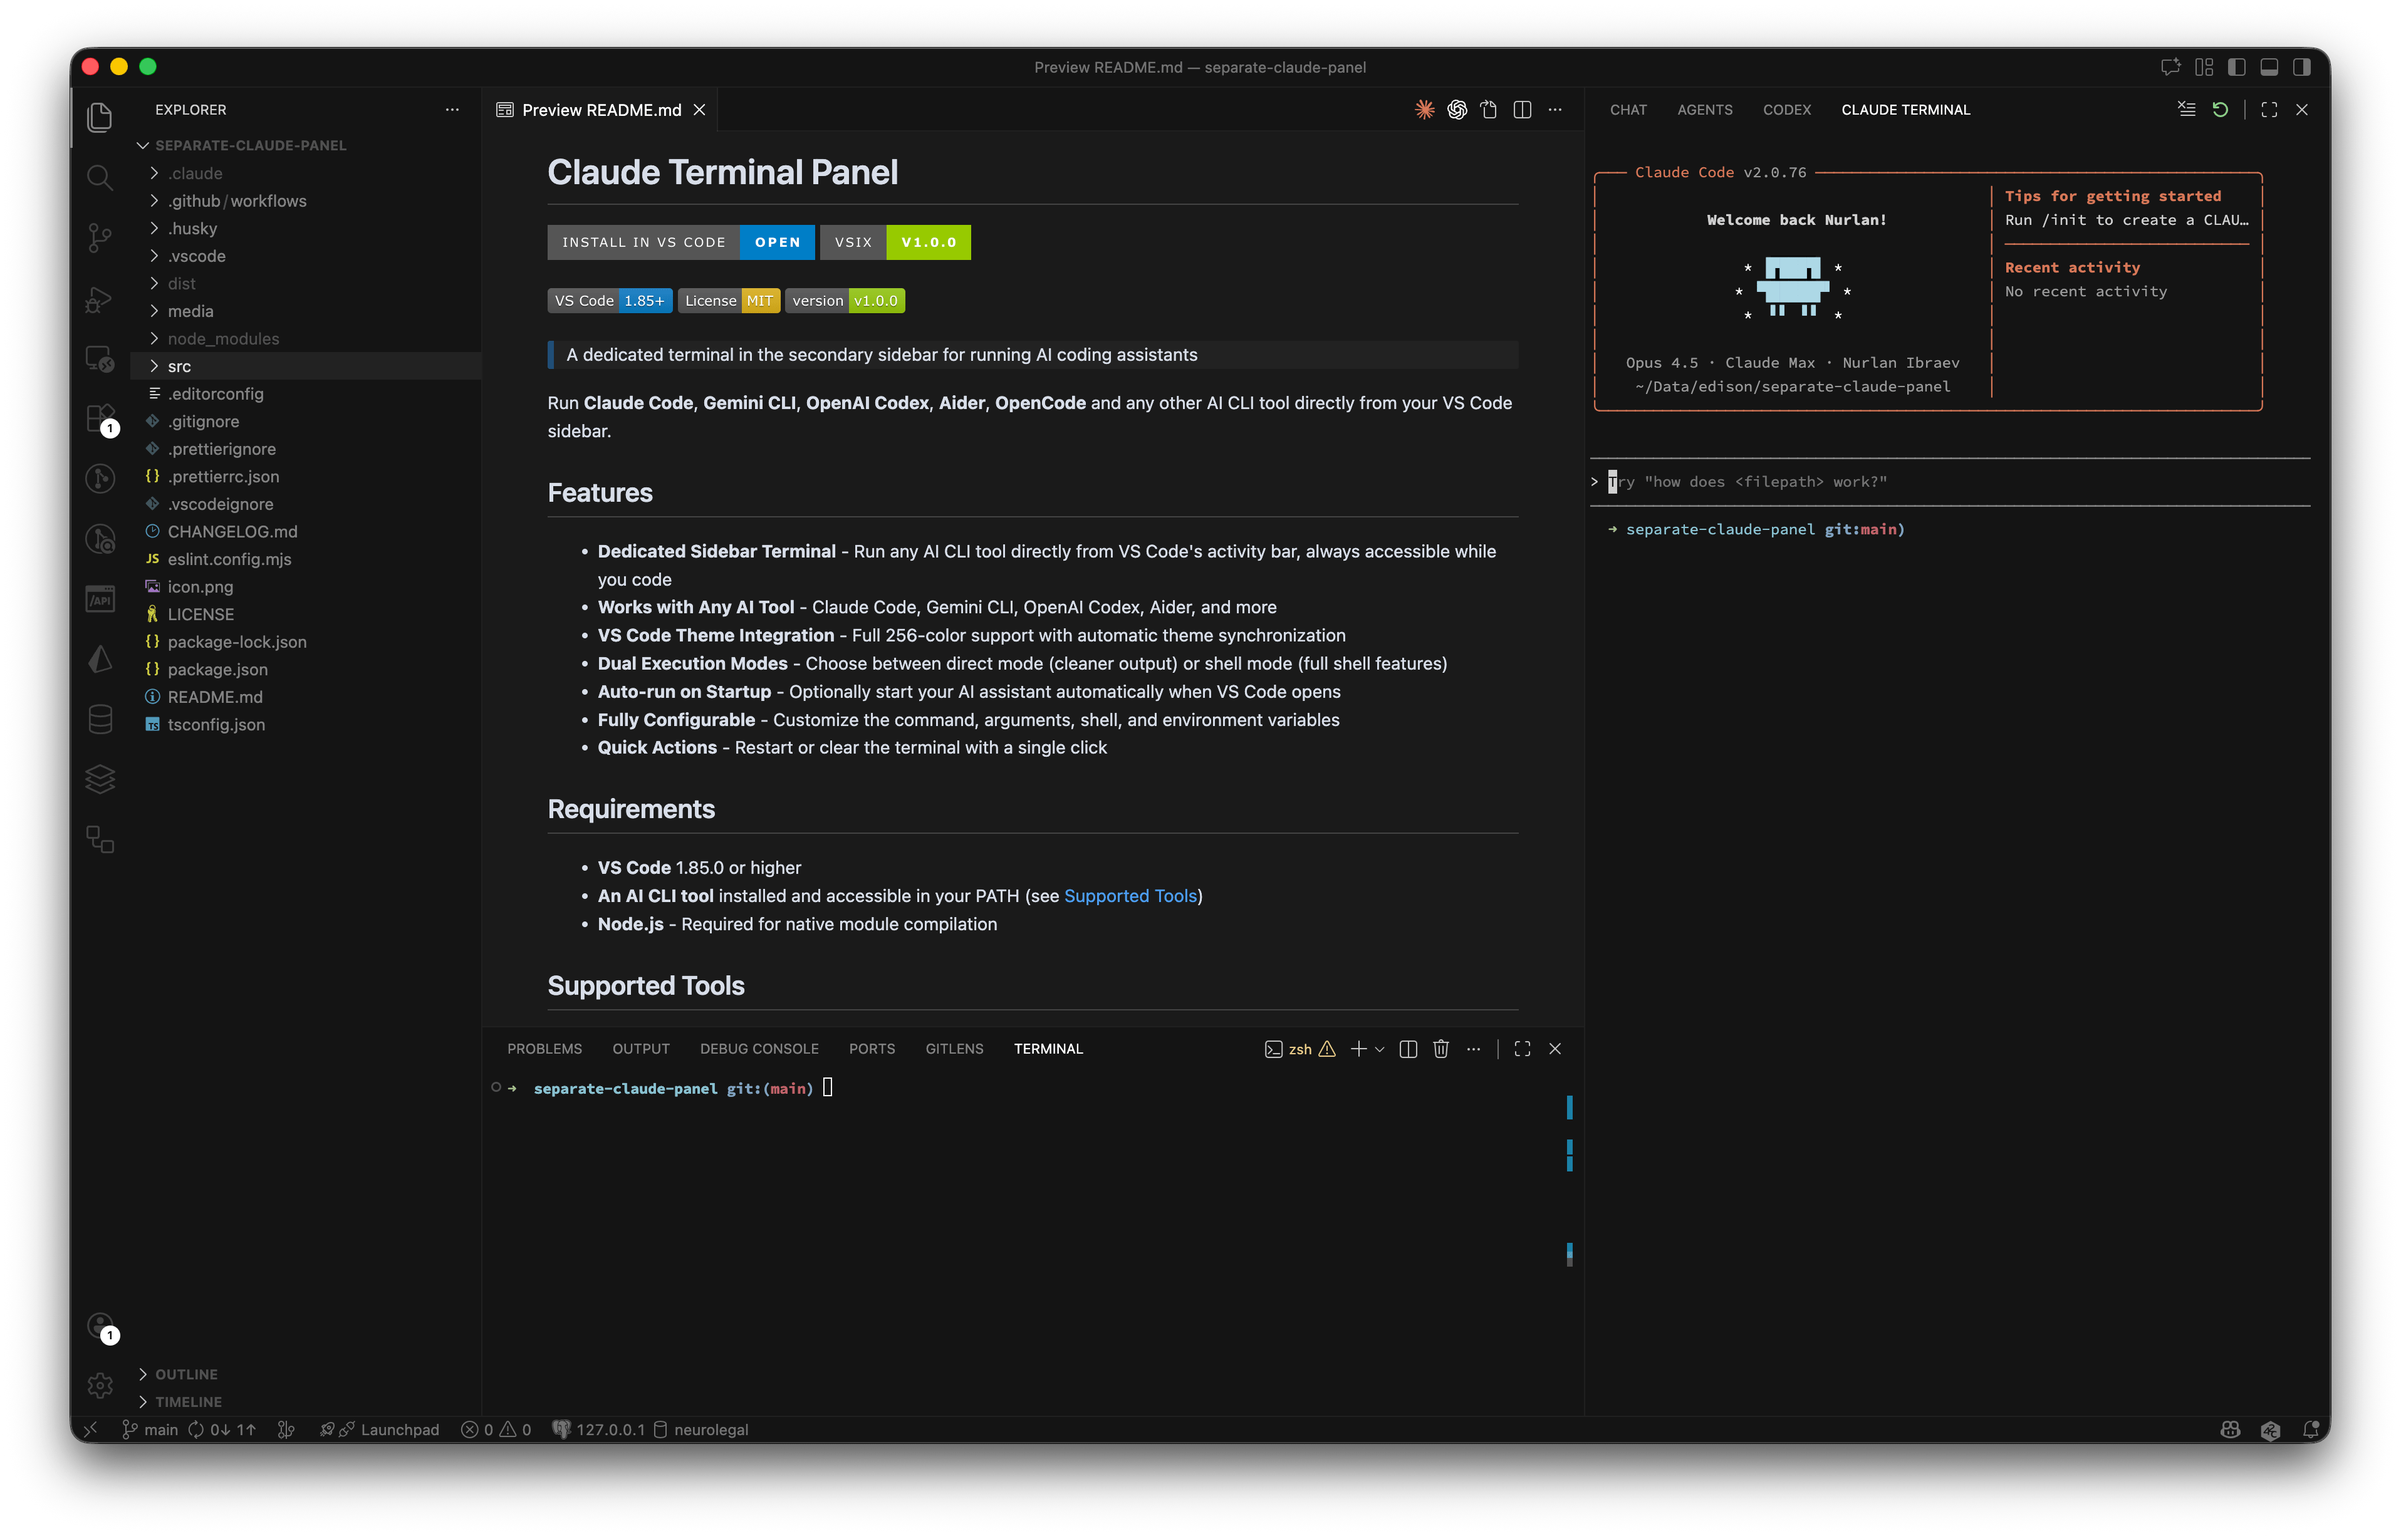
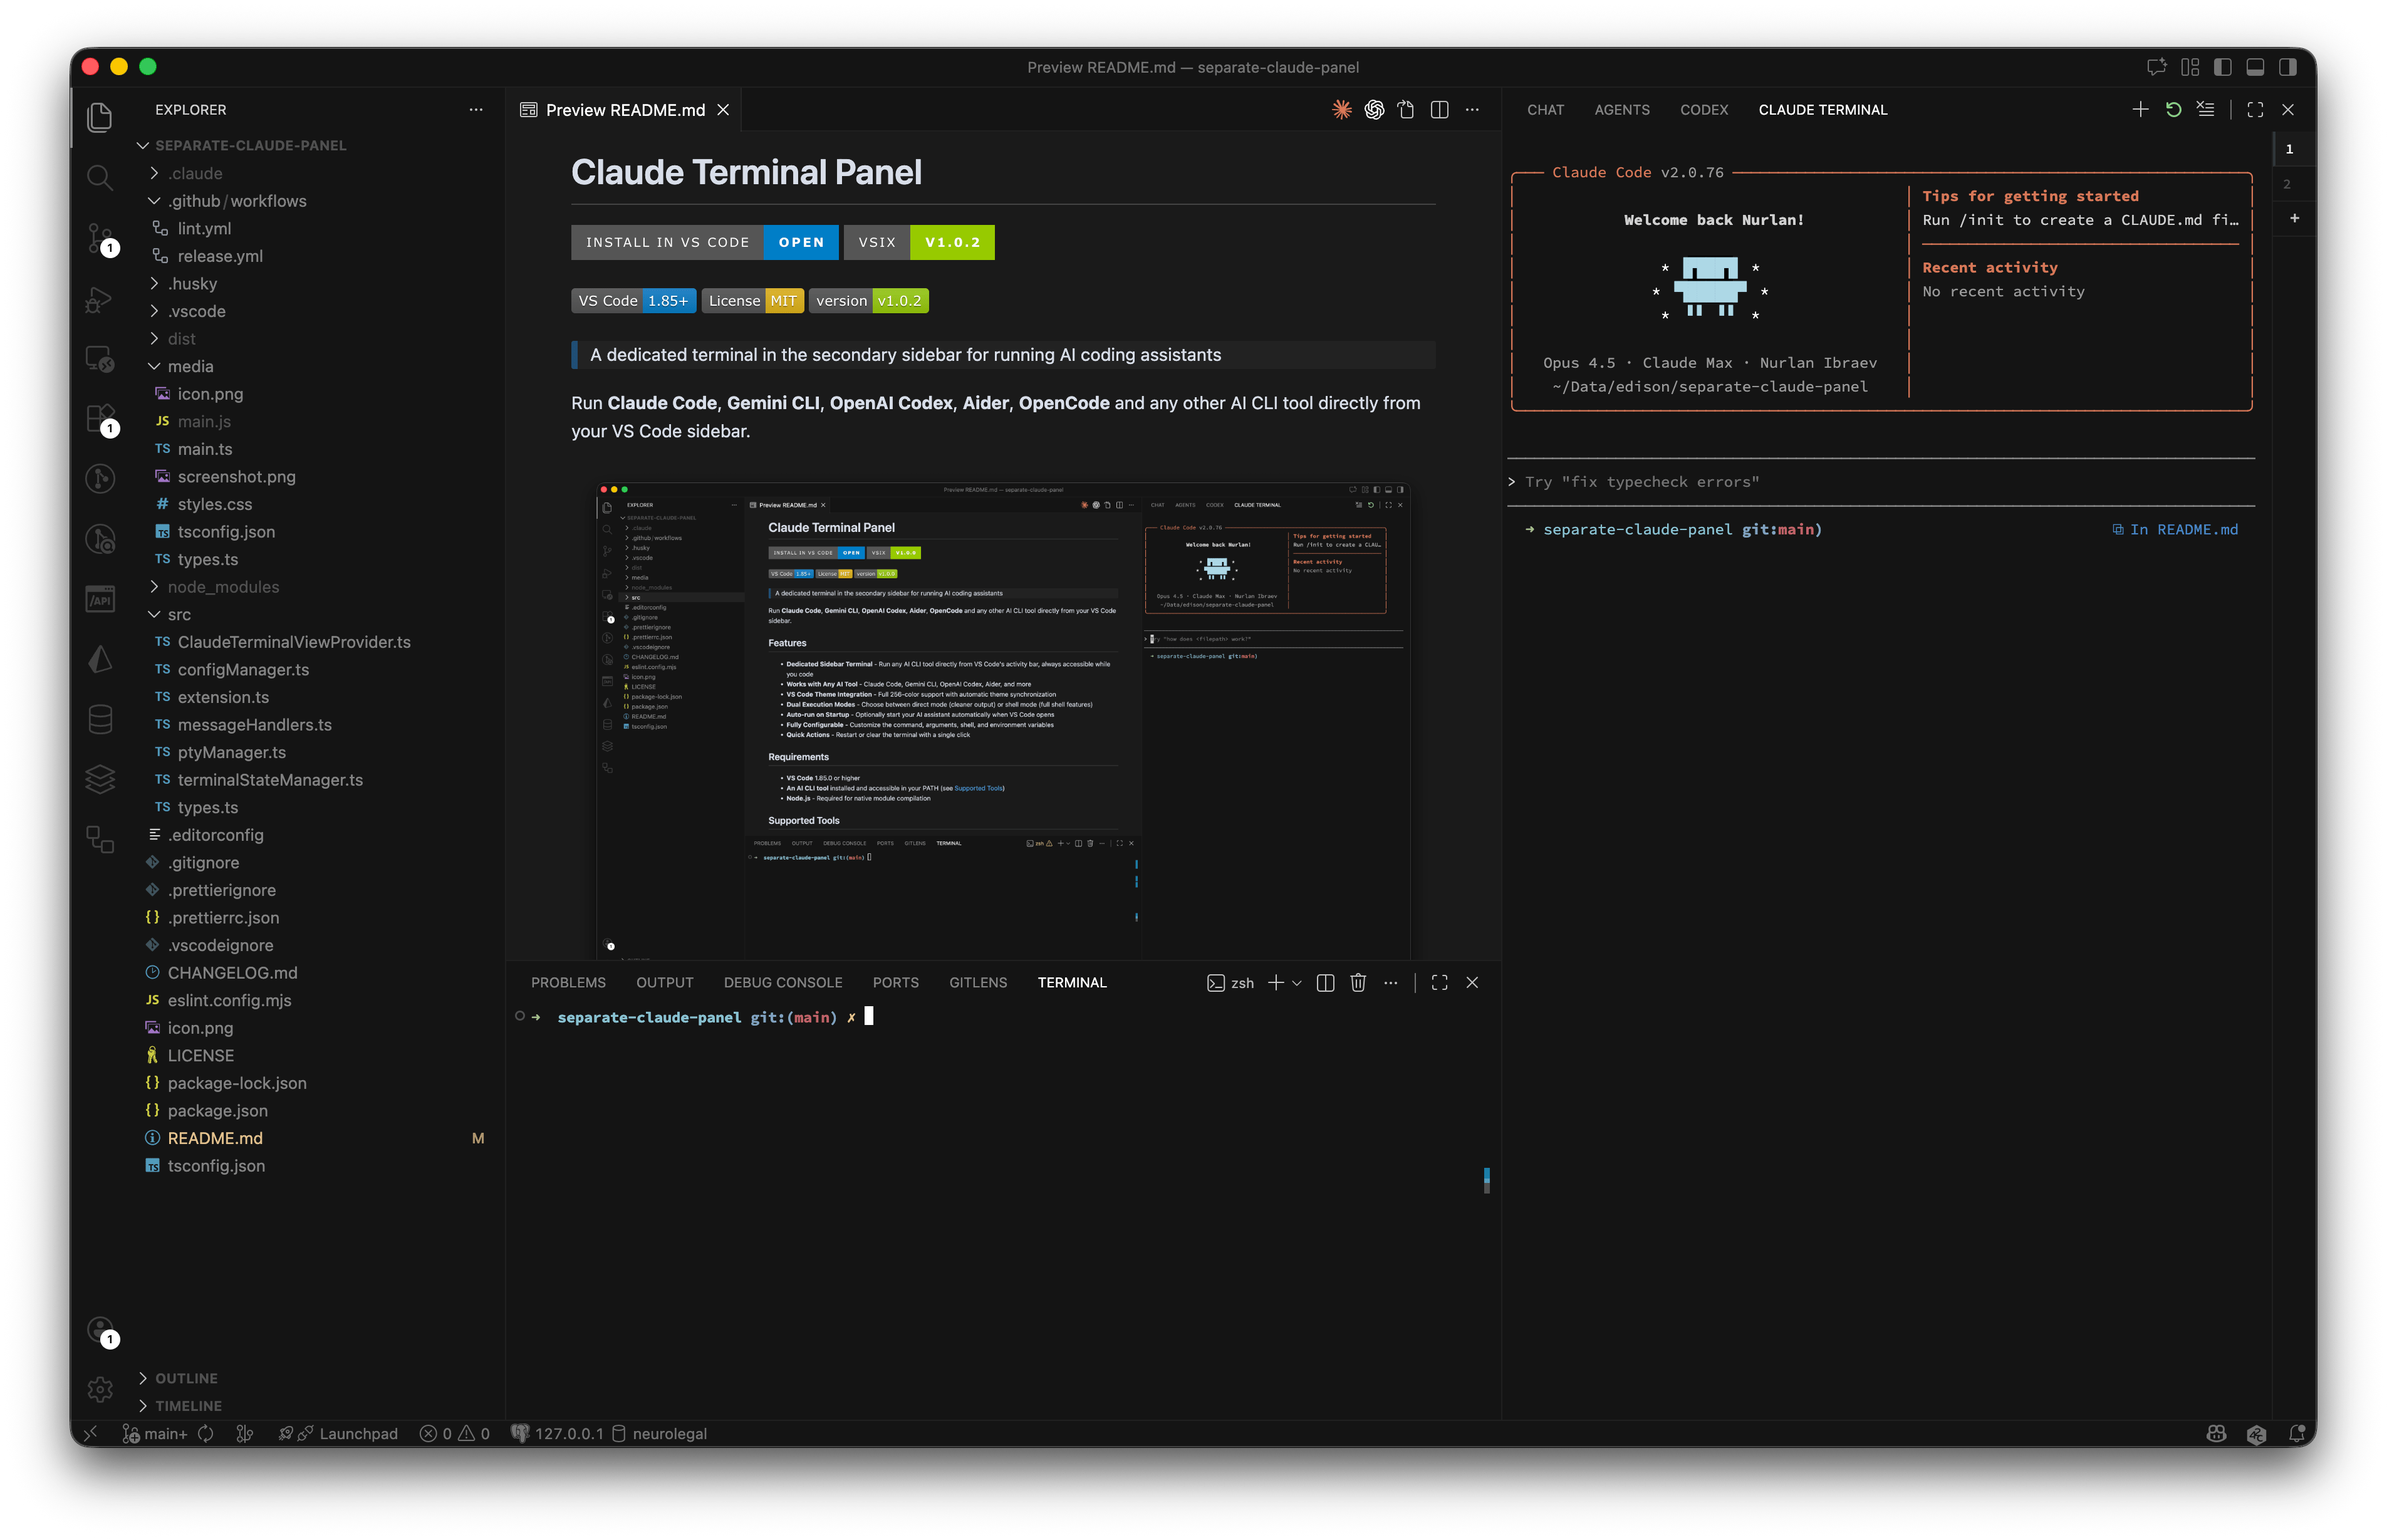
feat: Enhance README with multi-tab support features and keyboard shortcuts

diff --git a/README.md b/README.md
@@ -16,6 +16,7 @@ Run **Claude Code**, **Gemini CLI**, **OpenAI Codex**, **Aider**, **OpenCode** a
 ## Features
 
 - **Dedicated Sidebar Terminal** - Run any AI CLI tool directly from VS Code's activity bar, always accessible while you code
+- **Multi-Tab Support** - Run multiple terminal instances simultaneously with keyboard shortcuts for quick navigation
 - **Works with Any AI Tool** - Claude Code, Gemini CLI, OpenAI Codex, Aider, and more
 - **VS Code Theme Integration** - Full 256-color support with automatic theme synchronization
 - **Dual Execution Modes** - Choose between direct mode (cleaner output) or shell mode (full shell features)
@@ -85,12 +86,25 @@ npm run package
 
 ### Commands
 
-| Command                    | Description                  |
-| -------------------------- | ---------------------------- |
-| `Claude Terminal: Restart` | Restart the terminal session |
-| `Claude Terminal: Clear`   | Clear the terminal output    |
+| Command                         | Description                    |
+| ------------------------------- | ------------------------------ |
+| `Claude Terminal: Restart`      | Restart the terminal session   |
+| `Claude Terminal: Clear`        | Clear the terminal output      |
+| `Claude Terminal: New Tab`      | Create a new terminal tab      |
+| `Claude Terminal: Close Tab`    | Close the current terminal tab |
+| `Claude Terminal: Next Tab`     | Switch to the next tab         |
+| `Claude Terminal: Previous Tab` | Switch to the previous tab     |
 
 Access commands via the Command Palette (`Cmd+Shift+P` / `Ctrl+Shift+P`) or the view title bar icons.
+
+### Keyboard Shortcuts
+
+| Action       | Windows/Linux   | macOS           |
+| ------------ | --------------- | --------------- |
+| New Tab      | `Ctrl+Shift+``  | `Cmd+Shift+``   |
+| Close Tab    | `Ctrl+W`        | `Cmd+W`         |
+| Next Tab     | `Ctrl+PageDown` | `Cmd+Alt+Right` |
+| Previous Tab | `Ctrl+PageUp`   | `Cmd+Alt+Left`  |
 
 ## Configuration
 
